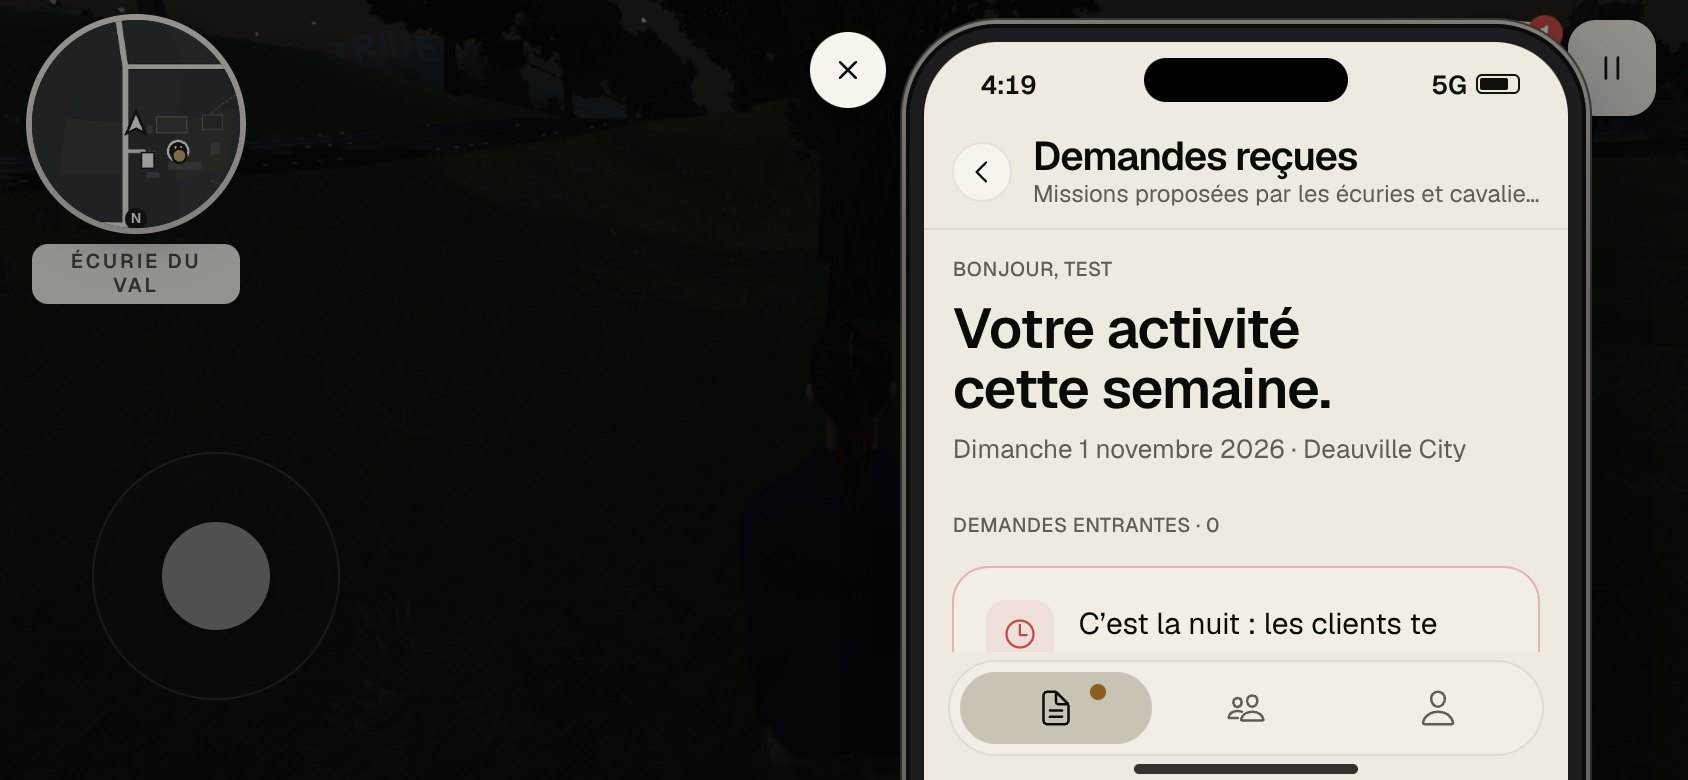
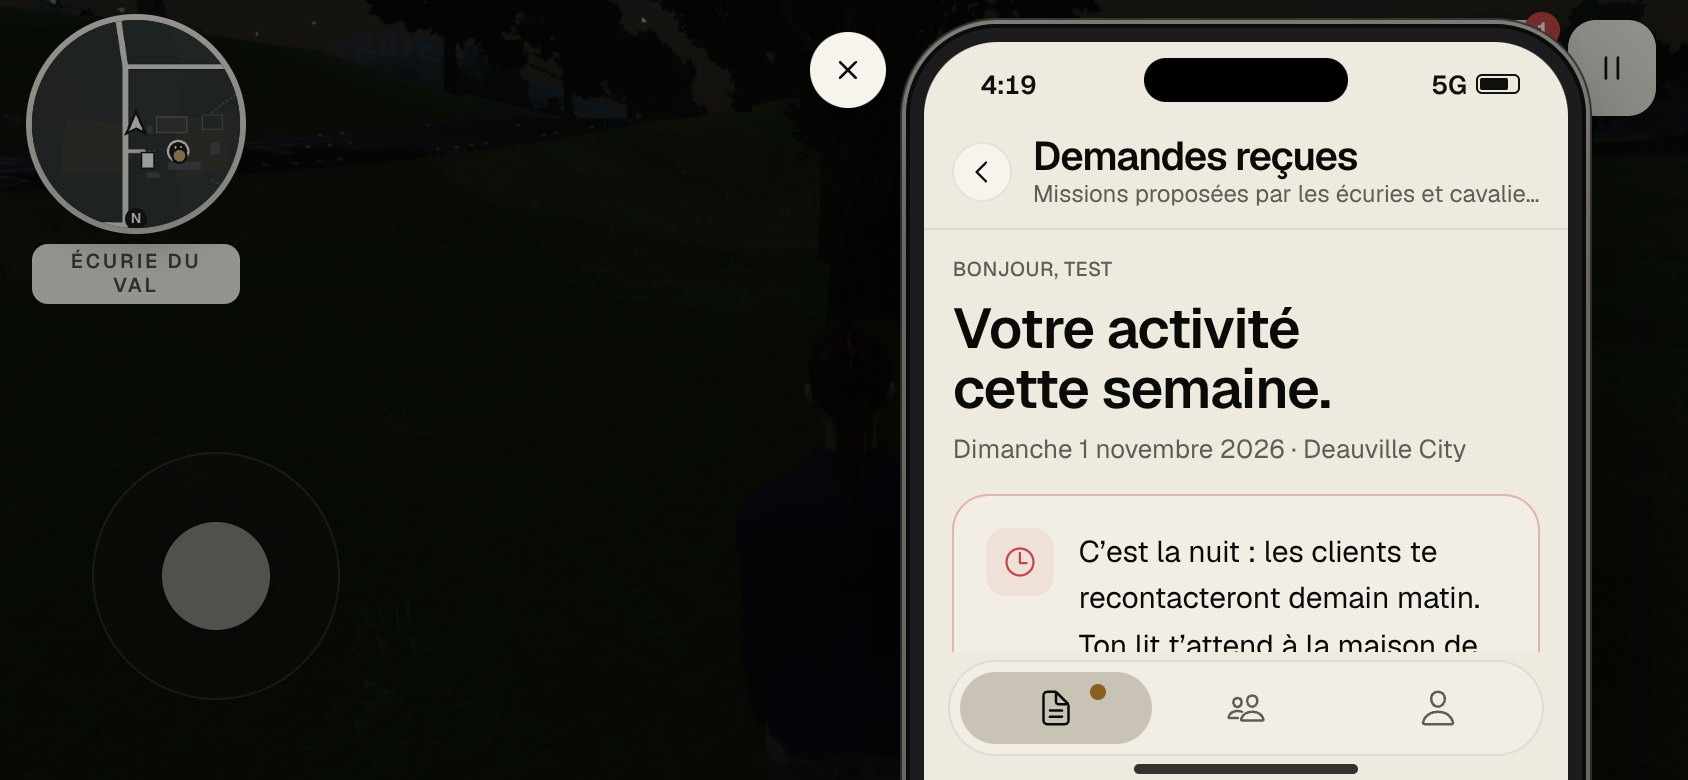
Téléphone : note de nuit / d'épuisement en haut de l'accueil Strides (lisible sur petit écran) ; vidéo : passage par la chambre, dimensions paires pour l'encodeur
Claude-Session: https://claude.ai/code/session_01AGKrBkLTvqvPJ9YwPQHFYK

Changed region(s): [[0.5545, 0.6462, 0.8934, 0.8308], [0.8934, 0.0, 0.9242, 0.0308]]

diff --git a/src/ui/requests.js b/src/ui/requests.js
@@ -95,6 +95,9 @@ export function renderProHome(phone) {
     h('div.st-h1', { text: t('Votre activité\ncette semaine.') }),
     h('div.st-small', { text: `${DAYS[now.getDay()][0].toUpperCase()}${DAYS[now.getDay()].slice(1)} ${longDate(now)} · Deauville City` })
   );
+  // Rythme de la journée : tard le soir ou épuisé, on le dit clairement, en haut de l'écran.
+  const note = g.energy?.statusNote();
+  if (note) body.appendChild(h('div.st-card.unavail-card.mtS', { 'data-id': 'life-note' }, h('span.ic', { html: ion(note.kind === 'fatigue' ? 'alert-circle-outline' : 'time-outline') }), h('div.st-body', { text: note.text })));
   const m = g.missions.active;
   if (m) {
     const gps = h('button.btn.small', { text: t('Itinéraire') });
@@ -116,9 +119,6 @@ export function renderProHome(phone) {
   }
   const offers = g.missions.offers.filter(isStridesOffer);
   body.appendChild(h('div.st-eyebrow.sec', { text: T`Demandes entrantes · ${offers.filter((o) => !o.locked && availOf(g, o).ok).length}` }));
-  // Rythme de la journée : tard le soir ou épuisé, on le dit clairement.
-  const note = g.energy?.statusNote();
-  if (note) body.appendChild(h('div.st-card.unavail-card.mtS', { 'data-id': 'life-note' }, h('span.ic', { html: ion(note.kind === 'fatigue' ? 'alert-circle-outline' : 'time-outline') }), h('div.st-body', { text: note.text })));
   if (offers.length) body.appendChild(h('div.req-list', {}, ...offers.map((o) => requestCard(phone, o))));
   else body.appendChild(h('div.st-card.empty-st', {}, h('div.st-body', { text: t('Aucune demande en attente.') }), h('div.req-cap', { text: t('Les demandes de vos clients arriveront ici.') })));
   body.append(
